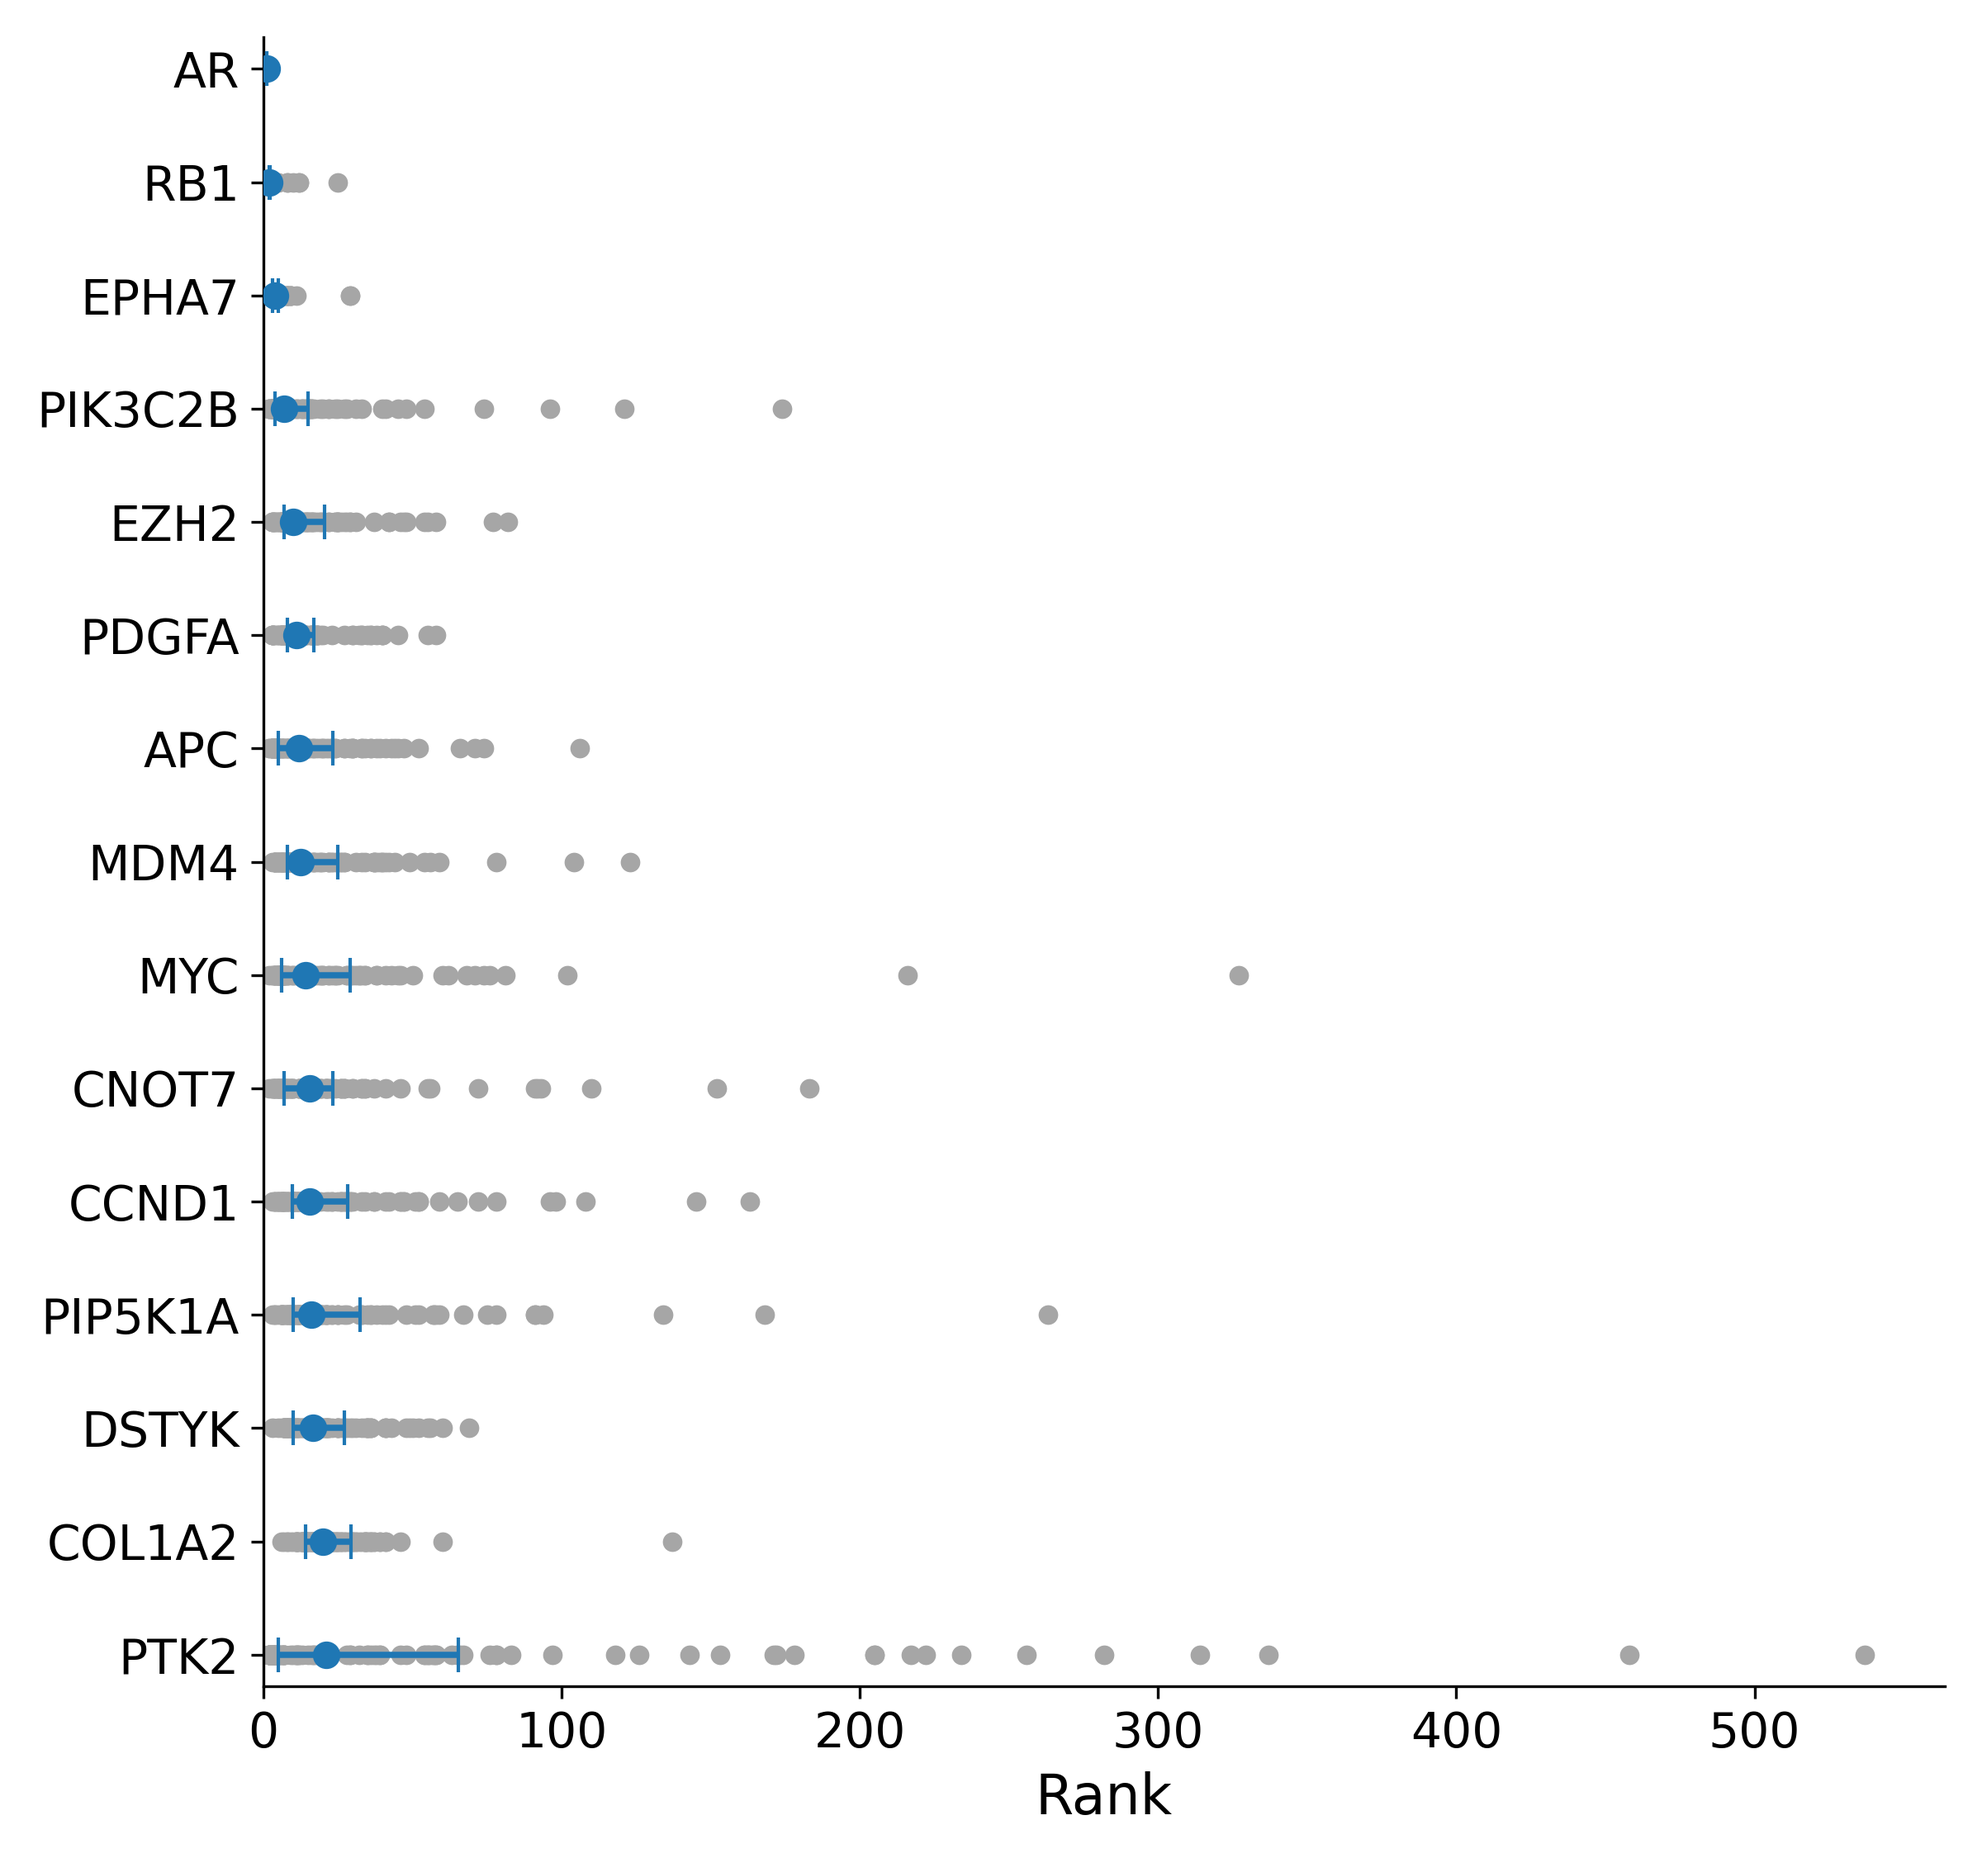
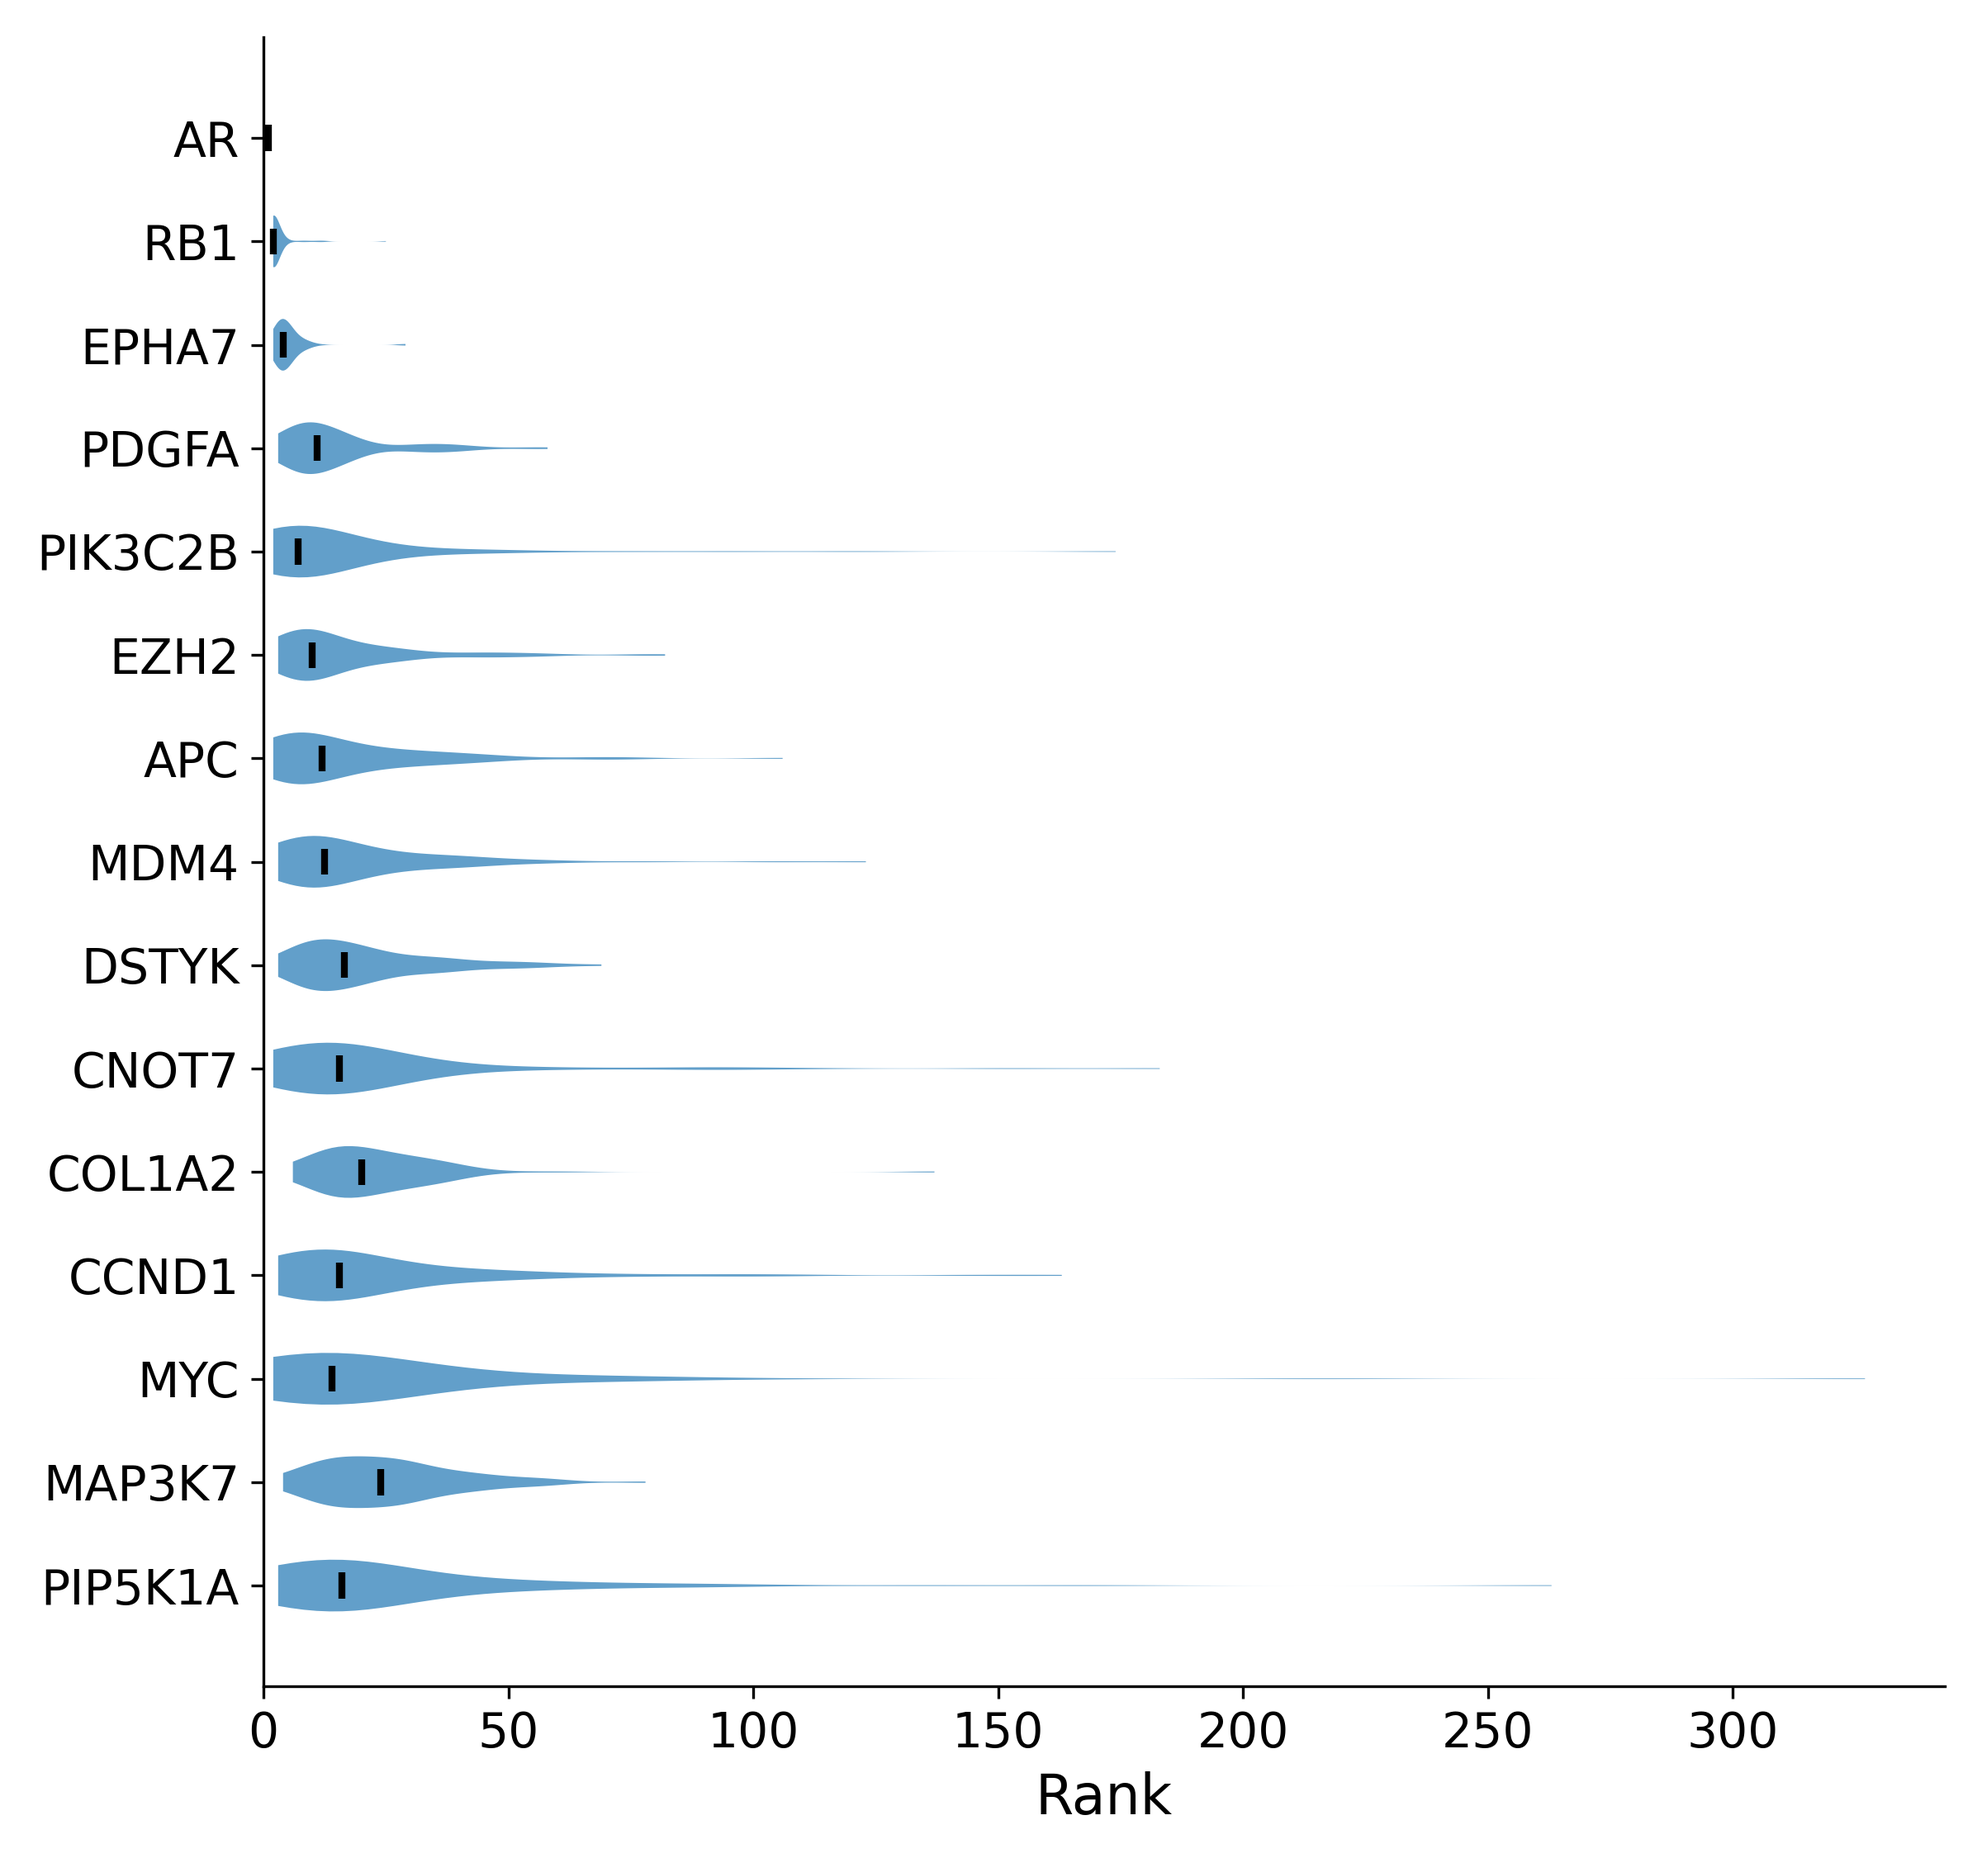
plotting

diff --git a/prostate_cancer_prediction/plotting/plot_importance_stability.py b/prostate_cancer_prediction/plotting/plot_importance_stability.py
@@ -143,37 +143,33 @@ def _plot_topk_membership(table, display, top_k, out_dir, label_col=None, top_n=
 
 
 def _plot_top_importance(wide, table, display, top_n, out_dir, label_col=None, unit="fold"):
-    """Save a figure of mean +/- 1 SD importance for the top-N features by mean score.
-    """
-    top = table.sort_values("mean_importance", ascending=False).head(top_n)
+    """Save a violin plot of importance score distributions for the top-N features by mean rank."""
+    top = table.sort_values("mean_rank", ascending=True).head(top_n)
     feats = list(top.index)
     label_of = dict(zip(feats, list(top[label_col]) if label_col else feats))
 
     order = feats[::-1]                 # reverse so rank 1 is at the top of the axis
-    sub = wide.loc[order]               # feature x fold importance values
-    means = sub.mean(axis=1).to_numpy()
-    stds = sub.std(axis=1).to_numpy()
+    sub = wide.loc[order]
     y = np.arange(len(order))
+    data = [sub.loc[f].dropna().to_numpy() for f in order]
 
     fig, ax = plt.subplots(figsize=(8, max(3.5, 0.5 * len(order))))
 
-    # individual per-fold scores (shows the actual variance, not just the SD bar)
-    for yi, f in zip(y, order):
-        fold_vals = sub.loc[f].dropna().to_numpy()
-        ax.scatter(fold_vals, np.full(len(fold_vals), yi),
-                   color="0.65", s=22, zorder=2)
-
-    # mean +/- 1 SD across repeats
-    ax.errorbar(means, y, xerr=stds, fmt="o", color="C3", capsize=5,
-                markersize=7, lw=1.8, zorder=3)
+    parts = ax.violinplot(data, positions=y, vert=False,
+                          showmedians=True, showextrema=False)
+    for body in parts["bodies"]:
+        body.set_facecolor("C3")
+        body.set_alpha(0.7)
+    parts["cmedians"].set_color("black")
+    parts["cmedians"].set_linewidth(2)
 
     ax.set_yticks(y)
     ax.set_yticklabels([label_of[f] for f in order], fontsize=TICK_SIZE)
     ax.set_xlabel("Feature importance score", fontsize=LABEL_SIZE)
-    ax.tick_params(axis='both', labelsize=TICK_SIZE)
-    ax.spines['top'].set_visible(False)
-    ax.spines['right'].set_visible(False)
-    ax.margins(y=0.02)
+    ax.tick_params(axis="both", labelsize=TICK_SIZE)
+    ax.spines["top"].set_visible(False)
+    ax.spines["right"].set_visible(False)
+    ax.margins(y=0.05)
 
     fig.tight_layout()
     fig.savefig(f"{out_dir}/{display}_top{top_n}_importance.png", dpi=DPI)
@@ -181,45 +177,34 @@ def _plot_top_importance(wide, table, display, top_n, out_dir, label_col=None, u
 
 
 def _plot_top_rank(ranks, table, display, top_n, out_dir, label_col=None, unit="fold"):
-    """Save a figure of median rank with IQR (Q1-Q3) for the top-N features by median rank.
-
-    Rank is bounded, discrete and typically right-skewed across repeats, so the
-    median and inter-quartile range describe its spread more faithfully than
-    mean +/- SD (which can place whiskers below rank 1).
-    """
-    top = table.sort_values(["median_rank", "mean_rank"], ascending=True).head(top_n)
+    """Save a violin plot of rank distributions for the top-N features by mean rank."""
+    top = table.sort_values("mean_rank", ascending=True).head(top_n)
     feats = list(top.index)
     label_of = dict(zip(feats, list(top[label_col]) if label_col else feats))
 
     order = feats[::-1]                 # reverse so rank 1 is at the top of the axis
-    sub = ranks.loc[order]              # feature x fold ranks
-    medians = sub.median(axis=1).to_numpy()
-    q1 = sub.quantile(0.25, axis=1).to_numpy()
-    q3 = sub.quantile(0.75, axis=1).to_numpy()
-    # asymmetric whiskers: distance from the median out to each quartile
-    xerr = np.vstack([medians - q1, q3 - medians])
+    sub = ranks.loc[order]
     y = np.arange(len(order))
+    data = [sub.loc[f].dropna().to_numpy() for f in order]
 
     fig, ax = plt.subplots(figsize=(8, max(3.5, 0.5 * len(order))))
 
-    # individual per-fold ranks (shows the actual spread, not just the IQR bar)
-    for yi, f in zip(y, order):
-        fold_vals = sub.loc[f].dropna().to_numpy()
-        ax.scatter(fold_vals, np.full(len(fold_vals), yi),
-                   color="0.65", s=22, zorder=2)
-
-    # median with IQR (Q1-Q3) across repeats
-    ax.errorbar(medians, y, xerr=xerr, fmt="o", color="C0", capsize=5,
-                markersize=7, lw=1.8, zorder=3)
+    parts = ax.violinplot(data, positions=y, vert=False,
+                          showmedians=True, showextrema=False)
+    for body in parts["bodies"]:
+        body.set_facecolor("C0")
+        body.set_alpha(0.7)
+    parts["cmedians"].set_color("black")
+    parts["cmedians"].set_linewidth(2)
 
     ax.set_yticks(y)
     ax.set_yticklabels([label_of[f] for f in order], fontsize=TICK_SIZE)
     ax.set_xlabel("Rank", fontsize=LABEL_SIZE)
     ax.set_xlim(left=0)
-    ax.tick_params(axis='both', labelsize=TICK_SIZE)
-    ax.spines['top'].set_visible(False)
-    ax.spines['right'].set_visible(False)
-    ax.margins(y=0.02)
+    ax.tick_params(axis="both", labelsize=TICK_SIZE)
+    ax.spines["top"].set_visible(False)
+    ax.spines["right"].set_visible(False)
+    ax.margins(y=0.05)
 
     fig.tight_layout()
     fig.savefig(f"{out_dir}/{display}_top{top_n}_rank.png", dpi=DPI)

diff --git a/prostate_cancer_prediction/run.py b/prostate_cancer_prediction/run.py
@@ -190,25 +190,25 @@ def run():
     #     unit="run",
     #     pathway_names="architecture/Reactome/ReactomePathways.txt")
 
+    # Feature-importance stability (each run writes to its own subdirectory under
+    analyse_importance_stability(
+        run_dir, figures_dir, n_hidden_layers,
+        run_id="pnet_test_set_stability",
+        fold_dirs=[f"{run_dir}/pnet_test_set_stability_{i}"
+                   for i in range(len(pnet_test_set_stability_configs))],
+        unit="run",
+        pathway_names="architecture/Reactome/ReactomePathways.txt")
+    analyse_importance_stability(
+        run_dir, figures_dir, n_hidden_layers,
+        run_id="pnet_GO_test_set_stability",
+        fold_dirs=[f"{run_dir}/pnet_GO_test_set_stability_{i}"
+                   for i in range(len(pnet_GO_test_set_stability_configs))],
+        unit="run",
+        pathway_names="architecture/GO/go_id_name_map.tsv")
+
     # plot_nested_CV(run_dir, figures_dir)
     #
     # plot_external_validation(run_dir, figures_dir)
-
-    # Feature-importance stability (each run writes to its own subdirectory under
-    # analyse_importance_stability(
-    #     run_dir, figures_dir, n_hidden_layers,
-    #     run_id="pnet_test_set_stability",
-    #     fold_dirs=[f"{run_dir}/pnet_test_set_stability_{i}"
-    #                for i in range(len(pnet_test_set_stability_configs))],
-    #     unit="run",
-    #     pathway_names="architecture/Reactome/ReactomePathways.txt")
-    # analyse_importance_stability(
-    #     run_dir, figures_dir, n_hidden_layers,
-    #     run_id="pnet_GO_test_set_stability",
-    #     fold_dirs=[f"{run_dir}/pnet_GO_test_set_stability_{i}"
-    #                for i in range(len(pnet_GO_test_set_stability_configs))],
-    #     unit="run",
-    #     pathway_names="architecture/GO/go_id_name_map.tsv")
 
 
 if __name__ == "__main__":
